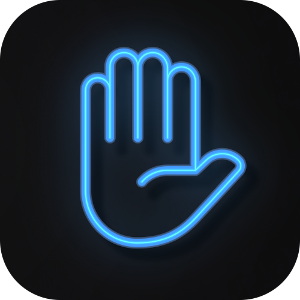
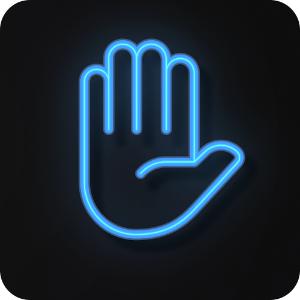
Finalized css

diff --git a/css/main.css b/css/main.css
@@ -163,7 +163,7 @@
 
 .rock-image {
     height: 20vh;
-    border-radius: 50px;
+    border-radius: 25px;
     box-shadow: 0px 0px 5px #000;
 }
 
@@ -173,7 +173,7 @@
 
 .paper-image {
     height: 20vh;
-    border-radius: 50px;
+    border-radius: 25px;
     box-shadow: 0px 0px 5px #000;
 }
 
@@ -183,7 +183,7 @@
 
 .scissors-image {
     height: 20vh;
-    border-radius: 50px;
+    border-radius: 25px;
     box-shadow: 0px 0px 5px #000;
 }
 
